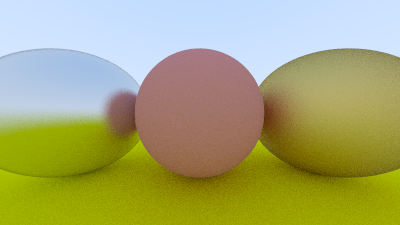
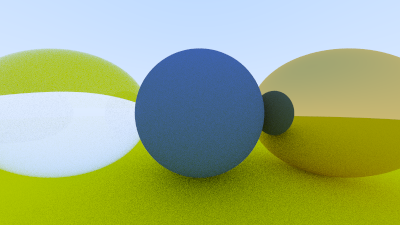
Finish section 10: Dielectrics

diff --git a/raylib/src/material.rs b/raylib/src/material.rs
@@ -1,8 +1,8 @@
 use crate::{
     hittable::HitRecord,
     ray::Ray,
-    util::clamp,
-    vec3::{dot, random_unit_vector, reflect, unit_vector, Color},
+    util::{clamp, random_double},
+    vec3::{dot, random_unit_vector, reflect, refract, unit_vector, Color},
     Vec3,
 };
 
@@ -59,5 +59,51 @@ impl Material for Metal {
             attenuation,
             scattered,
         )
+    }
+}
+
+pub struct Dielectric {
+    /// Index of refraction
+    ir: f64,
+}
+
+impl Dielectric {
+    pub fn new(ir: f64) -> Self {
+        Dielectric { ir }
+    }
+}
+
+fn reflectance(cosine: f64, ref_idx: f64) -> f64 {
+    // Use Schlick's approximation for reflectance.
+    let r0 = (1.0 - ref_idx) / (1.0 + ref_idx);
+    let r0 = r0 * r0;
+    r0 + (1.0 - r0) * (1.0 - cosine).powi(5)
+}
+
+impl Material for Dielectric {
+    fn scatter(&self, r_in: &Ray, rec: &HitRecord) -> (bool, Color, Ray) {
+        let attenuation = Color::new(1.0, 1.0, 1.0);
+        let refraction_ratio = if rec.front_face {
+            1.0 / self.ir
+        } else {
+            self.ir
+        };
+
+        let unit_direction = unit_vector(r_in.direction());
+        let cos_theta = dot(&-unit_direction, &rec.normal).min(1.0);
+        let sin_theta = (1.0 - cos_theta * cos_theta).sqrt();
+
+        let cannot_refract = refraction_ratio * sin_theta > 1.0;
+
+        let direction =
+            if cannot_refract || reflectance(cos_theta, refraction_ratio) > random_double() {
+                reflect(&unit_direction, &rec.normal)
+            } else {
+                refract(&unit_direction, &rec.normal, refraction_ratio)
+            };
+
+        let scattered = Ray::new(rec.p, direction);
+
+        (true, attenuation, scattered)
     }
 }

diff --git a/raylib/src/raytracer.rs b/raylib/src/raytracer.rs
@@ -3,7 +3,7 @@ use std::rc::Rc;
 use crate::{
     camera::Camera,
     hittable::DidHit,
-    material::{Lambertian, Metal},
+    material::{Dielectric, Lambertian, Metal},
     util::random_double,
     vec3::rgba_multisampled,
 };
@@ -14,7 +14,6 @@ use super::{
     ray::Ray,
     sphere::Sphere,
     vec3::{dot, unit_vector, Color, Point3},
-    Vec3,
 };
 
 fn ray_color(r: &Ray, world: &dyn Hittable, depth: i32) -> Color {
@@ -64,9 +63,9 @@ pub fn raytracer() -> Vec<u8> {
     // World
     let mut world = HittableList::new();
     let material_ground = Rc::new(Lambertian::new(Color::new(0.8, 0.8, 0.0)));
-    let material_center = Rc::new(Lambertian::new(Color::new(0.7, 0.3, 0.3)));
-    let material_left = Rc::new(Metal::new(Color::new(0.8, 0.8, 0.8), 0.3));
-    let material_right = Rc::new(Metal::new(Color::new(0.8, 0.6, 0.2), 1.0));
+    let material_center = Rc::new(Lambertian::new(Color::new(0.1, 0.2, 0.5)));
+    let material_left = Rc::new(Dielectric::new(1.5));
+    let material_right = Rc::new(Metal::new(Color::new(0.8, 0.6, 0.2), 0.0));
 
     world.add(Box::new(Sphere::new(
         Point3::new(0.0, -100.5, -1.0),

diff --git a/raylib/src/vec3.rs b/raylib/src/vec3.rs
@@ -55,13 +55,6 @@ impl Vec3 {
     }
 }
 
-impl ops::Neg for Vec3 {
-    type Output = Self;
-    fn neg(self) -> Self {
-        Self::new(-self.e[0], -self.e[1], -self.e[2])
-    }
-}
-
 impl ops::AddAssign for Vec3 {
     fn add_assign(&mut self, other: Self) {
         *self = Self::new(
@@ -83,6 +76,9 @@ impl ops::DivAssign<f64> for Vec3 {
         *self = Self::new(self.e[0] / rhs, self.e[1] / rhs, self.e[2] / rhs);
     }
 }
+
+// Unary negate
+overload!(- (a: ?Vec3) -> Vec3 { Vec3 { e: [-a.e[0], -a.e[1], -a.e[2]] } });
 
 // Add
 overload!((a: ?Vec3) + (b: ?Vec3) -> Vec3 {
@@ -159,6 +155,13 @@ pub fn random_unit_vector() -> Vec3 {
 
 pub fn reflect(v: &Vec3, n: &Vec3) -> Vec3 {
     v - 2.0 * dot(v, n) * n
+}
+
+pub fn refract(uv: &Vec3, n: &Vec3, etai_over_etat: f64) -> Vec3 {
+    let cos_theta = dot(&-uv, n).min(1.0);
+    let r_out_perp = etai_over_etat * (uv + cos_theta * n);
+    let r_out_parallel = -((1.0 - r_out_perp.length_squared()).abs()).sqrt() * n;
+    r_out_perp + r_out_parallel
 }
 
 pub fn rgba(color: &Color) -> (u8, u8, u8, u8) {

diff --git a/README.md b/README.md
@@ -3,7 +3,6 @@
 ![Raytracer Output](output.png?raw=true "Raytracer Output")
 
 This is a Rust implementation of [Raytracing in One Weekend](https://raytracing.github.io/books/RayTracingInOneWeekend.html).
-I don't have a ton of free time so it's taking a little longer the one weekend! I'm up to about Chapter 9.
 
 There is both a web app and a CLI within this repo.
 
